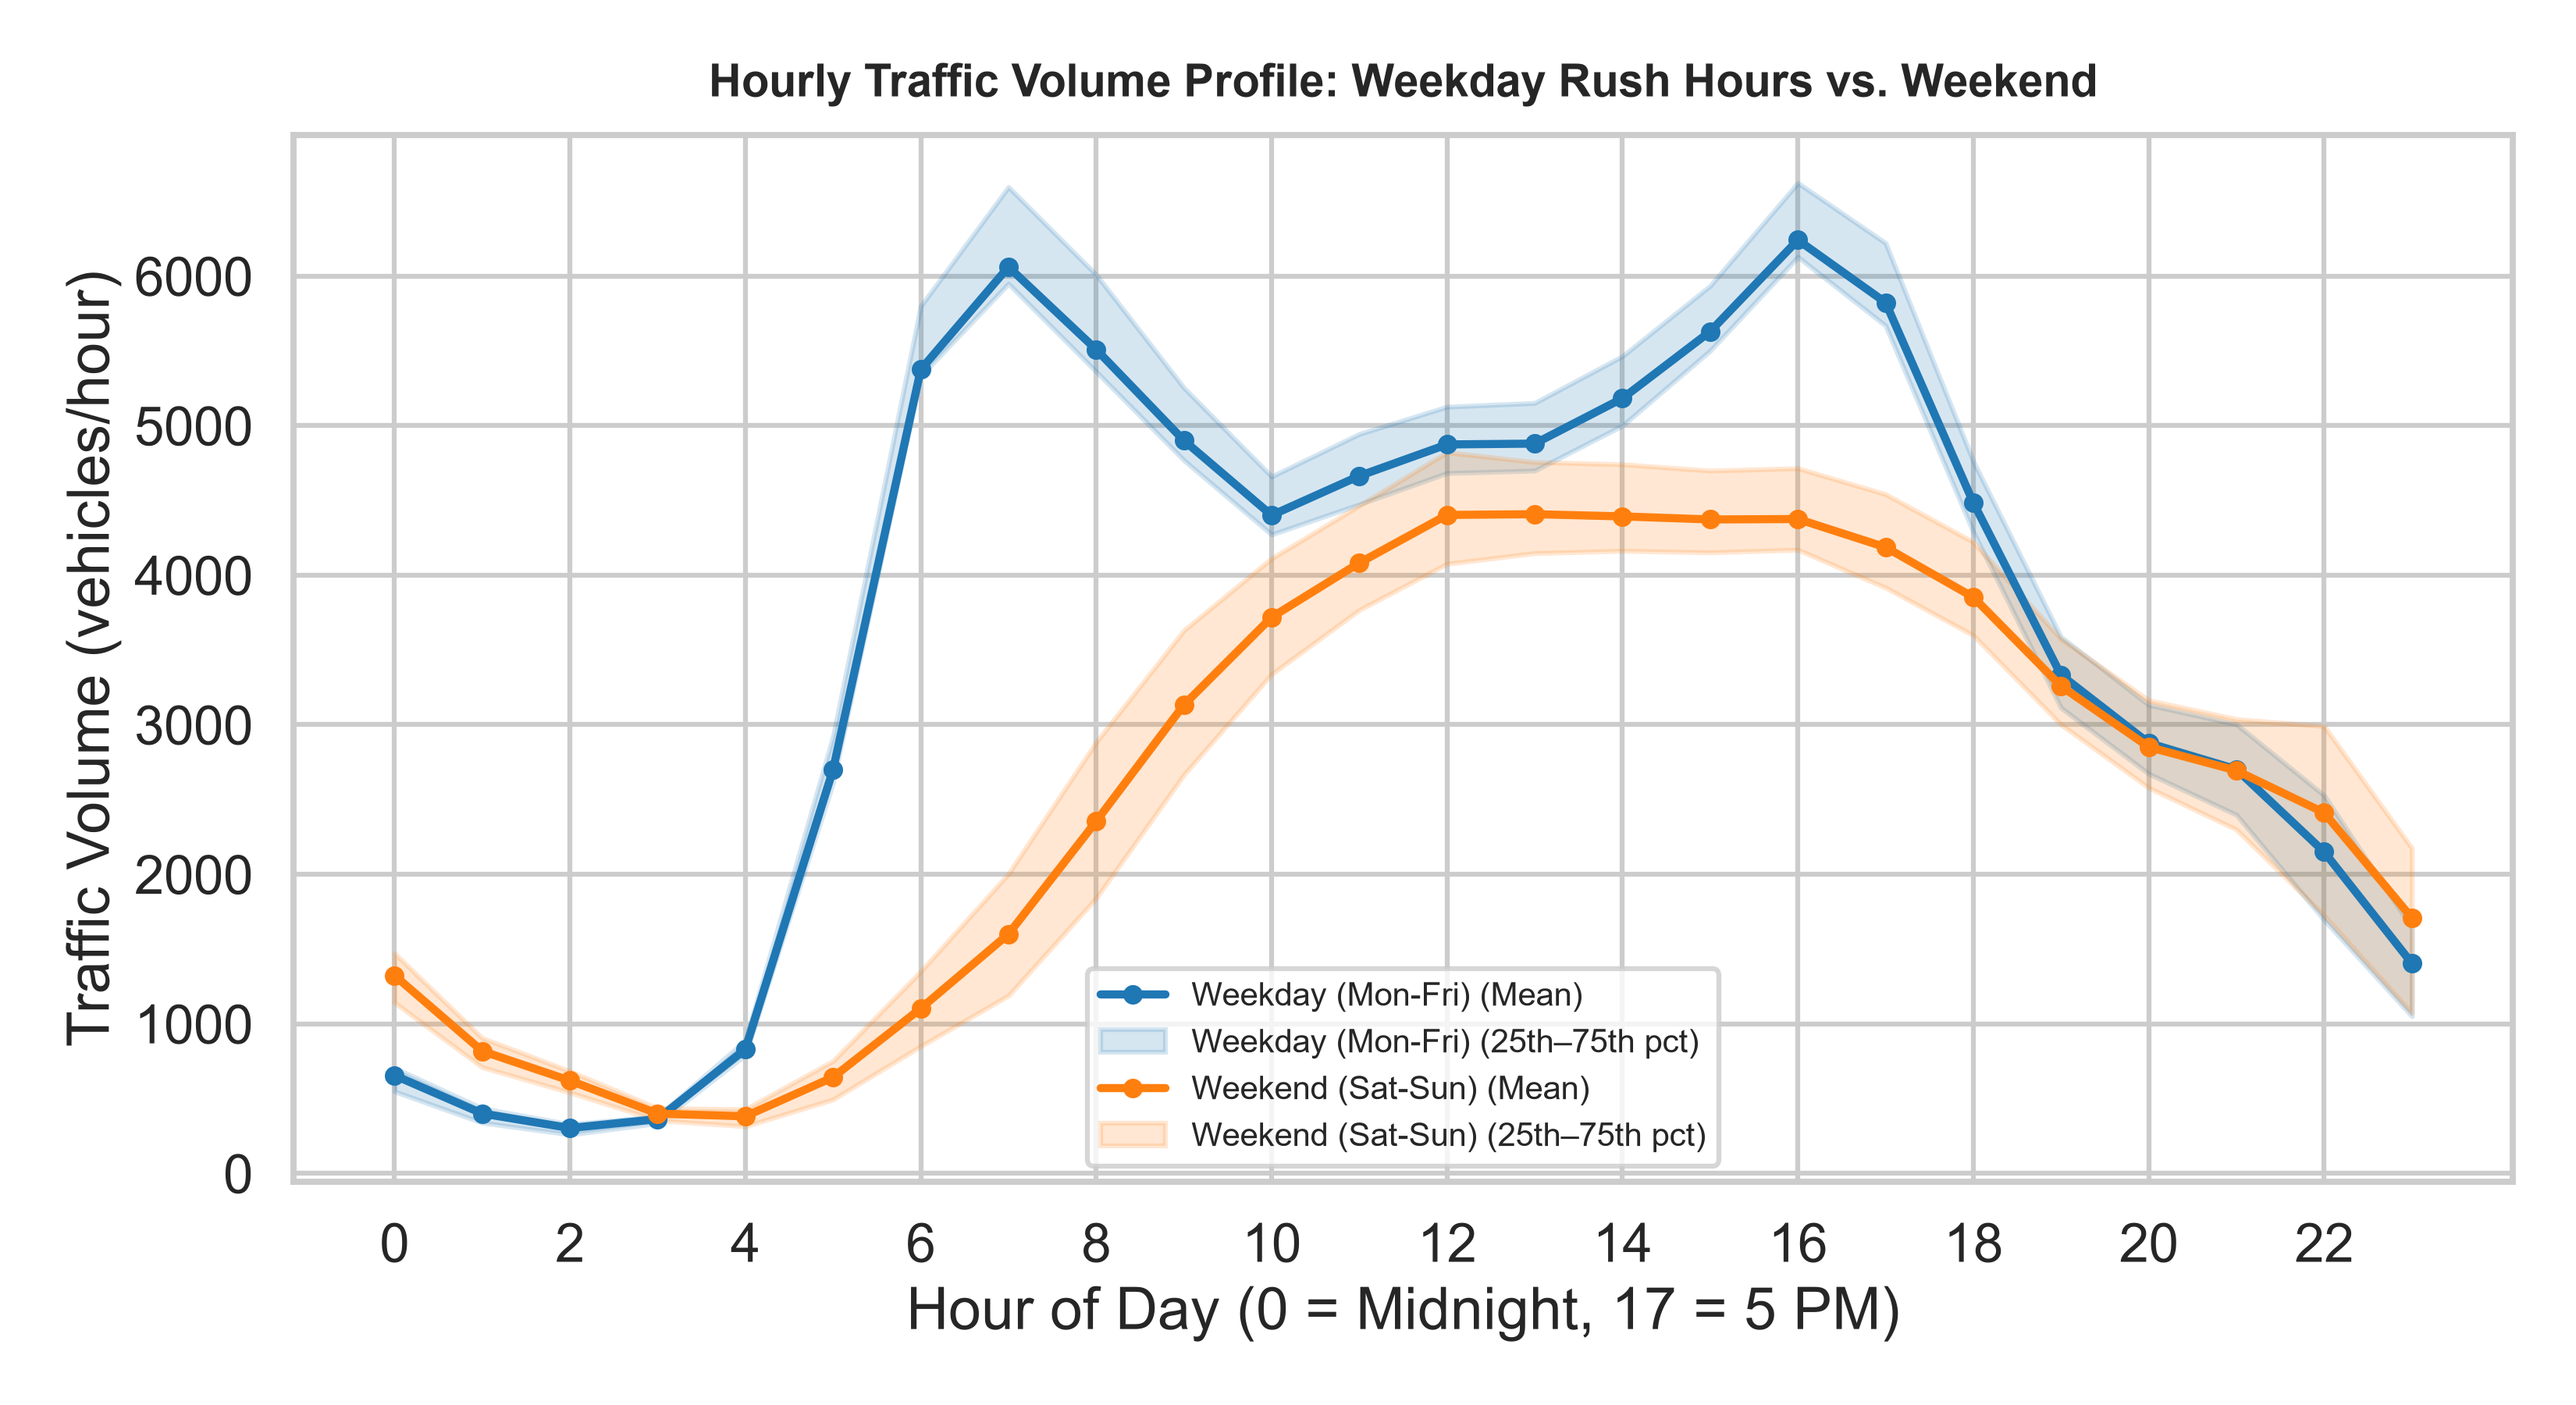
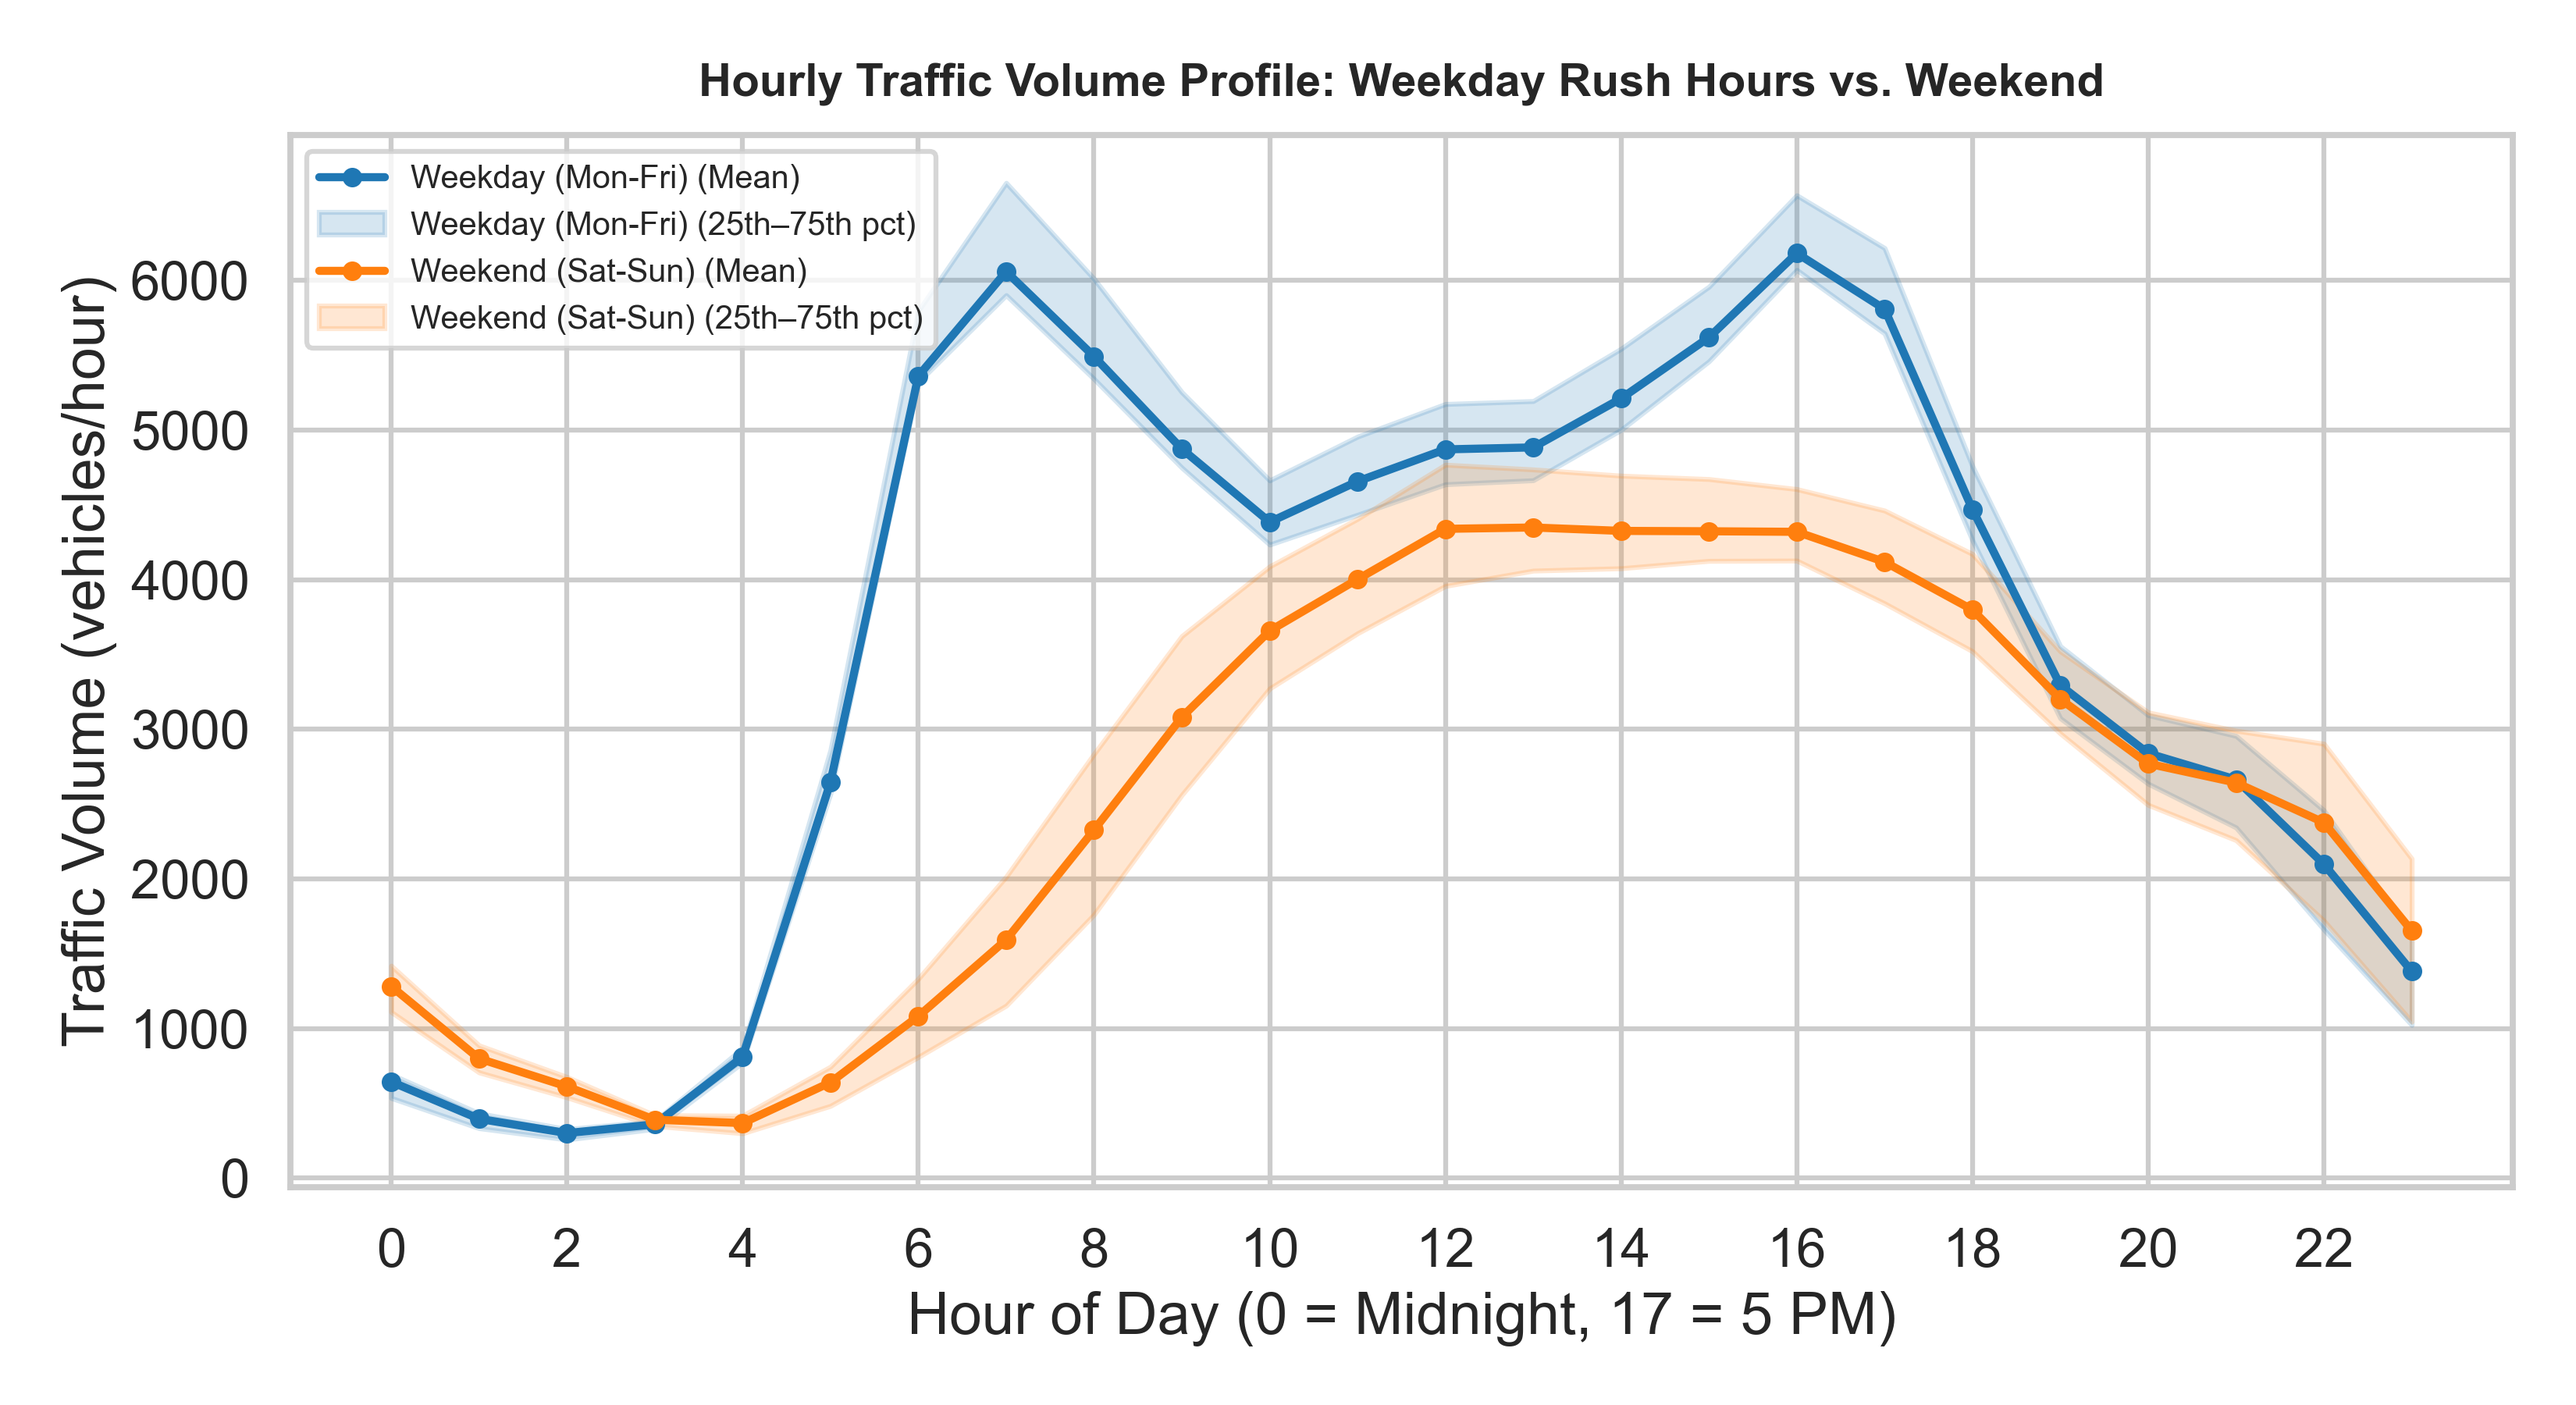
Keep exploratory analysis on the training period

Changed region(s): [[0.0, 0.0311, 0.9676, 0.9644], [0.6555, 0.0311, 0.8115, 0.0933]]

diff --git a/src/eda_weather.py b/src/eda_weather.py
@@ -1,0 +1,96 @@
+"""Training-only weather and distribution plots."""
+
+from __future__ import annotations
+
+import matplotlib.pyplot as plt
+import pandas as pd
+import seaborn as sns
+
+from src.config import FIGURES_DIR, TARGET_COL
+from src.split import chronological_split, load_processed_dataset
+
+
+sns.set_theme(style="whitegrid", context="talk")
+
+
+def training_observations(df: pd.DataFrame) -> pd.DataFrame:
+    train, _, _ = chronological_split(df)
+    return train.dropna(subset=[TARGET_COL]).copy()
+
+
+def plot_weather_conditions(train: pd.DataFrame) -> None:
+    order = train.groupby("weather_main")[TARGET_COL].median().sort_values(ascending=False).index
+    fig, ax = plt.subplots(figsize=(12, 6))
+    sns.boxplot(
+        data=train,
+        x="weather_main",
+        y=TARGET_COL,
+        order=order,
+        showfliers=False,
+        color="#6baed6",
+        ax=ax,
+    )
+    ax.set_title("Traffic volume by weather condition", fontweight="bold")
+    ax.set_xlabel("Weather condition")
+    ax.set_ylabel("Traffic volume (vehicles/hour)")
+    ax.tick_params(axis="x", rotation=30)
+    plt.tight_layout()
+    fig.savefig(FIGURES_DIR / "03_weather_conditions.png", dpi=240)
+    plt.close(fig)
+
+
+def plot_volume_distribution(train: pd.DataFrame) -> None:
+    fig, ax = plt.subplots(figsize=(10, 5.5))
+    sns.histplot(train[TARGET_COL], bins=45, color="#2c7fb8", ax=ax)
+    ax.set_title("Training-period traffic volume distribution", fontweight="bold")
+    ax.set_xlabel("Traffic volume (vehicles/hour)")
+    ax.set_ylabel("Observed hours")
+    plt.tight_layout()
+    fig.savefig(FIGURES_DIR / "04_volume_distribution.png", dpi=240)
+    plt.close(fig)
+
+
+def plot_weather_correlations(train: pd.DataFrame) -> None:
+    columns = ["temp", "rain_1h", "snow_1h", "clouds_all", TARGET_COL]
+    corr = train[columns].corr(numeric_only=True)
+    fig, ax = plt.subplots(figsize=(7.5, 6))
+    sns.heatmap(corr, cmap="vlag", center=0, annot=True, fmt=".2f", square=True, ax=ax)
+    ax.set_title("Weather and traffic correlations", fontweight="bold")
+    plt.tight_layout()
+    fig.savefig(FIGURES_DIR / "eda_weather_correlations.png", dpi=240)
+    plt.close(fig)
+
+
+def plot_split_timeline(df: pd.DataFrame) -> None:
+    train, val, test = chronological_split(df)
+    spans = [
+        ("Train", train.index.min(), train.index.max(), "#2c7fb8"),
+        ("Validation", val.index.min(), val.index.max(), "#fdae61"),
+        ("Test", test.index.min(), test.index.max(), "#d7191c"),
+    ]
+    fig, ax = plt.subplots(figsize=(12, 2.8))
+    for label, start, end, color in spans:
+        ax.barh([0], [(end - start).days], left=start, height=0.45, color=color, label=label)
+        ax.text(start + (end - start) / 2, 0, label, ha="center", va="center", color="white", fontweight="bold")
+    ax.set_title("Chronological model-development split", fontweight="bold")
+    ax.set_yticks([])
+    ax.set_xlabel("Date")
+    ax.legend(ncol=3, loc="lower center", bbox_to_anchor=(0.5, -0.55), frameon=False)
+    plt.tight_layout()
+    fig.savefig(FIGURES_DIR / "05_split_timeline.png", dpi=240, bbox_inches="tight")
+    plt.close(fig)
+
+
+def run_weather_eda() -> None:
+    FIGURES_DIR.mkdir(parents=True, exist_ok=True)
+    data = load_processed_dataset()
+    train = training_observations(data)
+    plot_weather_conditions(train)
+    plot_volume_distribution(train)
+    plot_weather_correlations(train)
+    plot_split_timeline(data)
+    print("Training-only weather EDA figures saved to reports/figures/.")
+
+
+if __name__ == "__main__":
+    run_weather_eda()

diff --git a/src/eda_temporal.py b/src/eda_temporal.py
@@ -4,7 +4,7 @@ import pandas as pd
 import seaborn as sns
 
 from src.config import FIGURES_DIR, TARGET_COL
-from src.split import load_processed_dataset
+from src.split import chronological_split, load_processed_dataset
 
 sns.set_theme(style="whitegrid", context="talk")
 
@@ -105,7 +105,7 @@ def plot_monthly_seasonality(df: pd.DataFrame) -> None:
     ax.legend(frameon=True)
     plt.tight_layout()
 
-    out = FIGURES_DIR / "03_monthly_seasonality.png"
+    out = FIGURES_DIR / "eda_monthly_seasonality.png"
     fig.savefig(out, dpi=300)
     plt.close(fig)
     print(f"[Saved] {out}")
@@ -134,23 +134,24 @@ def plot_holiday_effect(df: pd.DataFrame) -> None:
     ax.legend(title="Day Type", frameon=True)
     plt.tight_layout()
 
-    out = FIGURES_DIR / "04_holiday_effect.png"
+    out = FIGURES_DIR / "eda_holiday_effect.png"
     fig.savefig(out, dpi=300)
     plt.close(fig)
     print(f"[Saved] {out}")
 
 
 def run_temporal_eda() -> None:
-    """Generate all 4 temporal EDA figures and save to reports/figures/."""
+    """Generate temporal EDA from the training period only."""
     FIGURES_DIR.mkdir(parents=True, exist_ok=True)
     df = load_processed_dataset()
-    eda_df = add_temporal_columns(df)
+    train_df, _, _ = chronological_split(df)
+    eda_df = add_temporal_columns(train_df)
 
     plot_hourly_weekday_vs_weekend(eda_df)
     plot_dow_hour_heatmap(eda_df)
     plot_monthly_seasonality(eda_df)
     plot_holiday_effect(eda_df)
-    print("\n[Done] All temporal EDA figures saved to reports/figures/.")
+    print("\n[Done] Training-only temporal EDA figures saved to reports/figures/.")
 
 
 if __name__ == "__main__":

diff --git a/tests/test_eda_scope.py b/tests/test_eda_scope.py
@@ -1,0 +1,11 @@
+import pandas as pd
+
+from src.eda_weather import training_observations
+
+
+def test_eda_uses_only_the_training_period():
+    index = pd.date_range("2024-01-01", periods=20, freq="h")
+    frame = pd.DataFrame({"traffic_volume": range(20)}, index=index)
+    train = training_observations(frame)
+    assert len(train) == 14
+    assert train.index.max() < index[14]

diff --git a/scripts/02_run_eda.py b/scripts/02_run_eda.py
@@ -1,0 +1,7 @@
+from src.eda_temporal import run_temporal_eda
+from src.eda_weather import run_weather_eda
+
+
+if __name__ == "__main__":
+    run_temporal_eda()
+    run_weather_eda()
